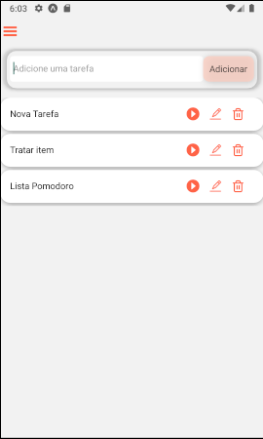
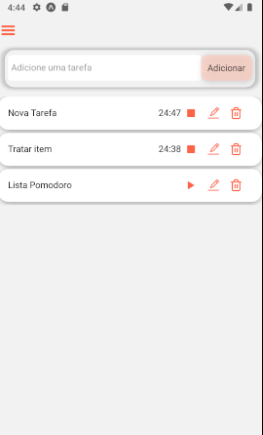
Criação do Stop Watch - Cronometro Regressivo

diff --git a/src/component/TaskCard/index.js b/src/component/TaskCard/index.js
@@ -1,12 +1,14 @@
-import React, { useContext } from 'react';
+import React, { useContext, useState } from 'react';
 import { View, Text, TouchableOpacity } from 'react-native';
 import styles from './styles';
-import { Feather, AntDesign } from '@expo/vector-icons';
+import { Feather, AntDesign, Entypo } from '@expo/vector-icons';
 import * as theme from '../../theme';
-import * as api from '../../services/api';
 import { CTX } from '../../tools/context';
+import StopWatch from '../StopWatch';
 
 const TaskCard = ({ item }) => {
+  const [stop, setStop] = useState(true);
+
   const taskContext = useContext(CTX);
   const { _deleteTask } = taskContext;
 
@@ -22,11 +24,15 @@ const TaskCard = ({ item }) => {
   return (
     <View style={styles.container}>
       <Text style={styles.cardText}>{item.name}</Text>
-
+      {!stop && <StopWatch startMinutes={25} />}
       <View style={styles.containerButton}>
         <View style={styles.button}>
-          <TouchableOpacity>
-            <AntDesign name="play" size={20} color={theme.colors.primary} />
+          <TouchableOpacity onPress={() => setStop(!stop)}>
+            <Entypo
+              name={!stop ? 'controller-stop' : 'controller-play'}
+              size={20}
+              color={theme.colors.primary}
+            />
           </TouchableOpacity>
         </View>
         <View style={styles.button}>

diff --git a/src/component/StopWatch/index.js b/src/component/StopWatch/index.js
@@ -1,0 +1,49 @@
+import React, { useState, useEffect } from 'react';
+import { View, Text } from 'react-native';
+import styles from './styles';
+
+export default function StopWatch({ startMinutes }) {
+  const [seconds, setSeconds] = useState(59);
+  const [minutes, setMinutes] = useState(startMinutes - 1);
+  const [stop, setStop] = useState(false);
+
+  const restartStopWatch = () => {
+    setSeconds(59);
+    setMinutes(startMinutes - 1);
+  };
+
+  const stopTime = () => {
+    setStop(!stop);
+  };
+
+  const decrementTime = () => {
+    if (stop === false) {
+      if (seconds === 0) {
+        if (minutes === 0) {
+          stopTime();
+        } else {
+          setSeconds(59);
+          setMinutes(minutes - 1);
+        }
+      } else {
+        setSeconds(seconds - 1);
+      }
+    }
+  };
+
+  useEffect(() => {
+    const id = setInterval(() => {
+      decrementTime();
+    }, 1000);
+    return () => clearInterval(id);
+  }, [seconds, minutes]);
+
+  return (
+    <View style={styles.container}>
+      <Text>
+        {minutes < 10 ? '0' + minutes.toString() : minutes.toString()}:
+        {seconds < 10 ? '0' + seconds.toString() : seconds.toString()}
+      </Text>
+    </View>
+  );
+}

diff --git a/src/component/index.js b/src/component/index.js
@@ -2,5 +2,6 @@ import Header from './Header';
 import TaskList from './TaskList';
 import TaskAdd from './TaskAdd';
 import TaskCard from './TaskCard';
+import StopWatch from './StopWatch';
 
-export { Header, TaskList, TaskAdd, TaskCard };
+export { Header, TaskList, TaskAdd, TaskCard, StopWatch };

diff --git a/src/component/StopWatch/styles.js b/src/component/StopWatch/styles.js
@@ -1,0 +1,7 @@
+import { StyleSheet } from 'react-native';
+
+export default StyleSheet.create({
+  container: {
+    marginHorizontal: 5,
+  },
+});
